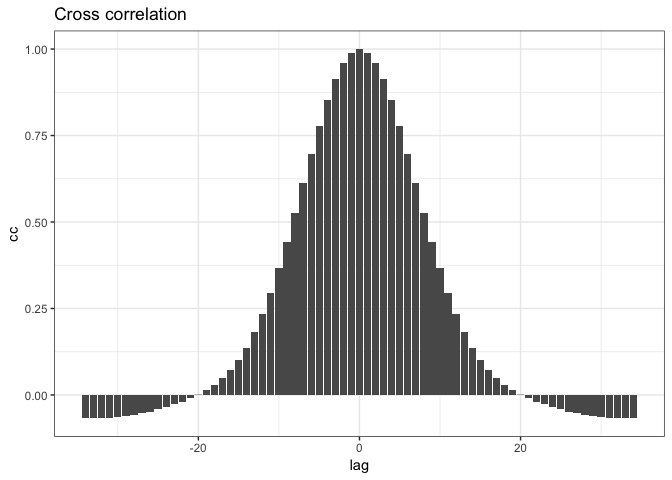
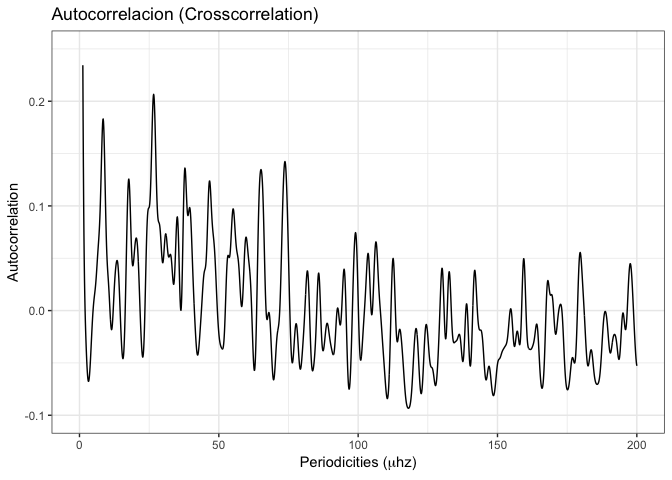
Docs updated with autocorr

Changed region(s): [[0.0, 0.0, 0.9688, 1.0], [0.75, 0.2812, 0.7812, 0.3125], [0.2812, 0.2812, 0.3125, 0.3125]]

diff --git a/docs/Experiment_-_HD174966.md b/docs/Experiment_-_HD174966.md
@@ -53,7 +53,7 @@ plot_spectrum(-5, 80, dt.star)
 ### Experiment execution
 
 ``` r
-result <- process(
+result <- variableStars::process(
   dt.star$frequency,
   dt.star$amplitude,
   filter = "uniform",
@@ -80,7 +80,7 @@ result <- process(
     ##     Dnu: 7.2568
     ##     Dnu Peak: 7.2568
     ##     Dnu Guess: 0.190972
-    ##     Cross correlation calculated:0.00441838, 0.00397885, 0.00316635, 0.00205702, 0.00074198, -0.00068112, -0.00211292, -0.00345211, -0.00458919, -0.00539412, 
+    ##     Cross correlation calculated:
     ##  Iteration over range: 60
     ##    Frequencies selected: 268.459, 312.02, 247.926, 320.781, 203.964, 580.477, 144.431, 209.899, 0.813717, 1.22332, 
     ##    Amplitudes selected: 6.2902, 5.1034, 2.0929, 0.9973, 0.6038, 0.3111, 0.2462, 0.2308, 0.172, 0.1694, 
@@ -115,6 +115,8 @@ plot_periodicities(result$fresAmps)
 
 ![](Experiment_-_HD174966_files/figure-markdown_github/periods-1.png)
 
+### Histogram of differences
+
 ``` r
 dt <- data.frame(result$diffHistogram$histogram)
 ggplot(aes(x = bins, y = values), data = dt) +
@@ -123,23 +125,45 @@ ggplot(aes(x = bins, y = values), data = dt) +
   theme_bw()
 ```
 
-![](Experiment_-_HD174966_files/figure-markdown_github/periods-2.png)
+![](Experiment_-_HD174966_files/figure-markdown_github/differences-1.png)
 
 ### Autocorrelation
 
 ``` r
-cc <- result$crossCorrelation
-dt <-
-  data.frame("lag" = seq(round(-1 * (length(
-    cc
-  ) - 1) / 2), round((length(
-    cc
-  ) - 1) / 2)),
-  "cc" = cc)
-ggplot(aes(x = lag, y = cc), data = dt) +
-  geom_bar(stat = "identity") +
-  ggtitle("Cross correlation") +
+dt <- data.frame(result$crossCorrelation)
+
+ggplot(aes(x = index, y = autocorre), data = dt) +
+  geom_line(stat = "identity") +
+  ggtitle("Autocorrelacion (Crosscorrelation)") +
+  xlab(expression(paste("Periodicities (",mu,"hz)"))) +
+  ylab("Autocorrelation") +
+  ylim(c(-0.05, 0.25)) +
   theme_bw()
 ```
 
+    ## Warning: Removed 13 rows containing missing values (geom_path).
+
 ![](Experiment_-_HD174966_files/figure-markdown_github/autocor-1.png)
+
+``` r
+m <-
+  microbenchmark(result <- process(
+  dt.star$frequency,
+  dt.star$amplitude,
+  filter = "uniform",
+  gRegimen = 0,
+  minDnu = 15,
+  maxDnu = 95,
+  dnuValue = -1,
+  dnuGuessError = 10,
+  dnuEstimation = TRUE,
+  numFrequencies = 30,
+  debug = F
+)
+                 ,times = 100)
+autoplot(m, log = F) +
+  scale_x_discrete(labels = c("The complete process")) +
+  xlab("")
+```
+
+![](Experiment_-_HD174966_files/figure-markdown_github/benchmark-1.png)

diff --git a/docs/Experiment_-_HD174936.md b/docs/Experiment_-_HD174936.md
@@ -85,7 +85,7 @@ result <- process(
     ##     Dnu: 9.4051
     ##     Dnu Peak: 9.4051
     ##     Dnu Guess: 0.22003
-    ##     Cross correlation calculated:-0.0663463, -0.0674715, -0.0676236, -0.0667651, -0.0648855, -0.0620033, -0.0581655, -0.0534425, -0.0479188, -0.0416764, 
+    ##     Cross correlation calculated:
     ##  Iteration over range: 60
     ##    Frequencies selected: 377.298, 412.711, 414.62, 360.076, 339.22, 367.963, 321.916, 387.625, 359.466, 0.660089, 
     ##    Amplitudes selected: 2.1216, 1.0158, 0.7157, 0.5646, 0.5463, 0.5303, 0.3623, 0.3193, 0.2997, 0.2947, 
@@ -120,6 +120,8 @@ plot_periodicities(result$fresAmps)
 
 ![](Experiment_-_HD174936_files/figure-markdown_github/periods-1.png)
 
+### Histogram of differences
+
 ``` r
 dt <- data.frame(result$diffHistogram$histogram)
 ggplot(aes(x = bins, y = values), data = dt) +
@@ -128,23 +130,47 @@ ggplot(aes(x = bins, y = values), data = dt) +
   theme_bw()
 ```
 
-![](Experiment_-_HD174936_files/figure-markdown_github/periods-2.png)
+![](Experiment_-_HD174936_files/figure-markdown_github/differences-1.png)
 
 ### Autocorrelation
 
 ``` r
-cc <- result$crossCorrelation
-dt <-
-  data.frame("lag" = seq(round(-1 * (length(
-    cc
-  ) - 1) / 2), round((length(
-    cc
-  ) - 1) / 2)),
-  "cc" = cc)
-ggplot(aes(x = lag, y = cc), data = dt) +
-  geom_bar(stat = "identity") +
-  ggtitle("Cross correlation") +
+dt <- data.frame(result$crossCorrelation)
+
+ggplot(aes(x = index, y = autocorre), data = dt) +
+  geom_line(stat = "identity") +
+  ggtitle("Autocorrelacion (Crosscorrelation)") +
+  xlab(expression(paste("Periodicities (",mu,"hz)"))) +
+  ylab("Autocorrelation") +
+  ylim(c(-0.1, 0.25)) +
   theme_bw()
 ```
 
+    ## Warning: Removed 12 rows containing missing values (geom_path).
+
 ![](Experiment_-_HD174936_files/figure-markdown_github/autocor-1.png)
+
+### Computation benchmark
+
+``` r
+m <-
+  microbenchmark(result <- process(
+  dt.star$frequency,
+  dt.star$amplitude,
+  filter = "uniform",
+  gRegimen = 0,
+  minDnu = 15,
+  maxDnu = 95,
+  dnuValue = -1,
+  dnuGuessError = 10,
+  dnuEstimation = TRUE,
+  numFrequencies = 30,
+  debug = F
+)
+                 ,times = 100)
+autoplot(m, log = F) +
+  scale_x_discrete(labels = c("The complete process")) +
+  xlab("")
+```
+
+![](Experiment_-_HD174936_files/figure-markdown_github/benchmark-1.png)

diff --git a/docs/Experiments.md b/docs/Experiments.md
@@ -127,7 +127,7 @@ result <- process(
     ##     Dnu: 1.0693
     ##     Dnu Peak: 3.9403
     ##     Dnu Guess: 82.9435
-    ##     Cross correlation calculated:0.682078, 0.670522, 0.658349, 0.646074, 0.634194, 0.623175, 0.613438, 0.605355, 0.599246, 0.595376, 
+    ##     Cross correlation calculated:
     ##  Iteration over range: 60
     ##    Frequencies selected: 264.505, 264.113, 260.586, 264.897, 263.721, 265.288, 268.423, 263.329, 256.668, 251.965, 
     ##    Amplitudes selected: 2.18044, 0.514798, 0.512875, 0.489923, 0.370046, 0.343731, 0.263693, 0.263439, 0.251894, 0.221904, 
@@ -203,18 +203,17 @@ ggplot(aes(x = bins, y = values), data = dt[dt$values > 0,]) +
 
 ![](Experiments_files/figure-markdown_github/diffsHistogram-1.png)
 
-#### Cross correlation
-
-Simple cross correlation
+### Autocorrelation
 
 ``` r
-cc <- result$crossCorrelation
-dt <- data.frame("lag" = seq(round(-1*(length(cc)-1)/2), round((length(cc)-1)/2)), 
-                 "cc"=cc)
-ggplot(aes(x = lag, y = cc), data = dt) +
-  geom_bar(stat = "identity") +
-  ggtitle("Cross correlation") +
+dt <- data.frame(result$crossCorrelation)
+
+ggplot(aes(x = index, y = autocorre), data = dt) +
+  geom_line(stat = "identity") +
+  ggtitle("Autocorrelacion (Crosscorrelation)") +
+  xlab(expression(paste("Periodicities (",mu,"hz)"))) +
+  ylab("Autocorrelation") +
   theme_bw()
 ```
 
-![](Experiments_files/figure-markdown_github/crossCorrelation-1.png)
+![](Experiments_files/figure-markdown_github/autocor-1.png)
